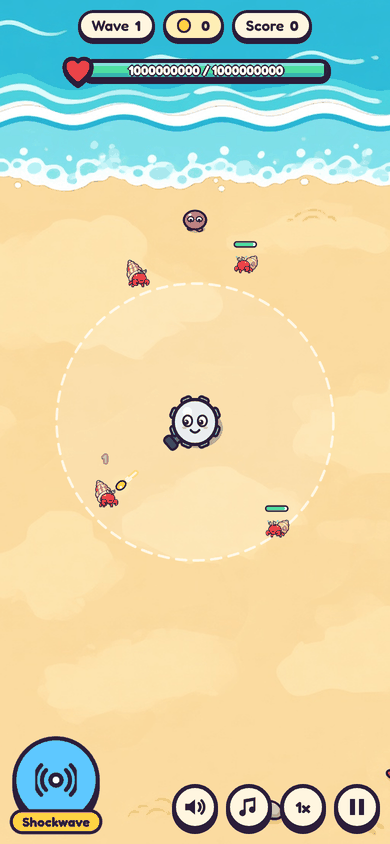
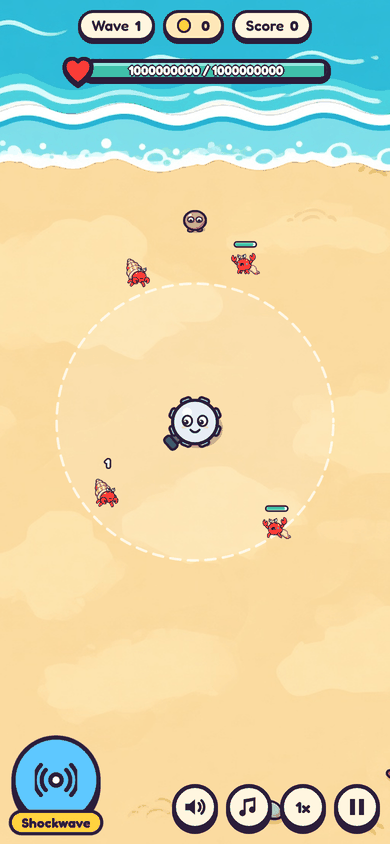
QA: retake World 2 shots on Beach v0.1.2 (crabs, decal aimed at tower, Crabclaw walk/angry, surf, real-size frame strips)

diff --git a/docs/qa/world2/README.md b/docs/qa/world2/README.md
@@ -1,13 +1,21 @@
 # World 2 review evidence (PR #5)
 
-Taken Nov 12 2026 from the `world-2-beach` branch, served on 127.0.0.1 in Chrome at DPR 2, then saved at real CSS size
+Taken Nov 12 2026 (04, 07, 08, 14-18 retaken on Beach art v0.1.2) from the `world-2-beach` branch, served on 127.0.0.1 in Chrome at DPR 2, then saved at real CSS size
 (390x844 unless the name says otherwise) as 256-colour PNGs to keep the set small. The game art itself is not changed.
 
 | Shot | Shows |
 |---|---|
 | 01 / 02 / 03 | Start screen, fresh save: Beach locked with `card_locked_overlay.png` only (no filter, no opacity) at 390x844, 375x667 (compact badge), 360x740 |
-| 04-08 | Beach play: crabs shell on + broken, gulls + shadows, Elite Big Red shell, Crabclaw coconut + landing ring, phase 2 angry art |
+| 04 | Beach v0.1.2: `hermit_crab_b` crabs, shell on (top-left, bottom-left) and broken/bare (right) |
+| 05 / 06 | Gulls + shadows; Elite Big Red shell (taken on v0.1.1 art, unchanged in v0.1.2) |
+| 07 | Crabclaw coconut aimed straight at the tower: v0.1.2 300 px warning decal, inner ring = dangerR (44), chevron band out to ~1.83x, clear of the tower body |
+| 08 | Crabclaw phase 2 angry art (two coconuts in the air, so two decals overlap) |
+| 14 | Crabclaw phase 1 walking in |
+| 15 | Beach surf (ping-pong 0,1,2,3,2,1 @6 fps) behind a WAVE CLEAR banner; still frame, the loop is checked in the PR text |
+| 16 | Hermit crab walk cells 0-3 at real game size (DPR 2), shelled row then bare row |
+| 17 | Crabclaw walk cells (JSON sequence 0,1,2,1) then angry walk, real game size (DPR 2) |
+| 18 | 4x crop of shot 07's decal around the tower |
 | 09 / 10 | Backyard enemies frozen / poisoned: the IceCrust / VenomDrips image looks alone (code status rings removed) |
-| 11 | Beach: frozen crab + Elite Big Red, poisoned crab + gull |
+| 11 | Beach: frozen crab + Elite Big Red, poisoned crab + gull (v0.1.1 `hermit_crab_a` crabs; the looks are the point of this shot) |
 | 12 | Results after a local dev-door Beach run: "(test run, not saved)"; the save is restored byte-for-byte |
 | 13 | The same `?debug=1&unlock=beach` URL on a non-local host: ignored, Beach stays locked |
